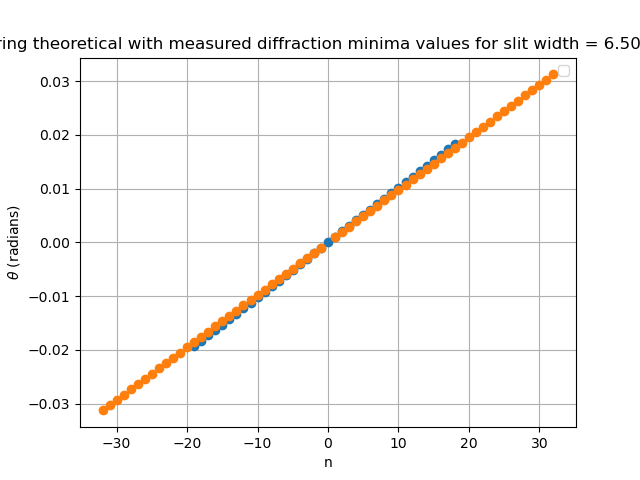
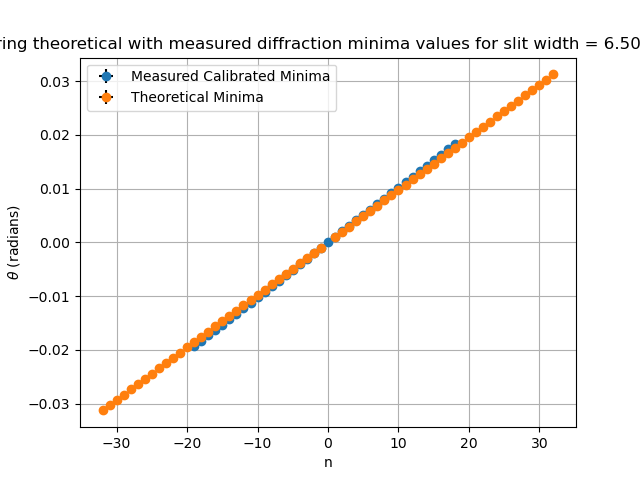
Cleanup code

Changed region(s): [[0.1562, 0.125, 0.5312, 0.2188]]

diff --git a/main.py b/main.py
@@ -58,6 +58,7 @@ def main() -> None:
     samples: list[str] = [dt.dataPath620, dt.dataPath650, dt.dataPath700, dt.dataPath750]
     # samples: list[str] = [dt.dataPath]
 
+    # The final found slits for either real measured (calibrated) or model data
     realSlitWidths: list = []
     modelSlitWidths: list = []
 
@@ -69,29 +70,29 @@ def main() -> None:
         # Get slitwidth from the saved filepath name i.e. data/diffraction_data_200.dat -> slitWidth = 200
         filepath: str = Path(sample).stem # Take the filepath without extension
         slitWidth: float = float(filepath.split("_")[-1])  # Take the part after the last underscore, which is defined to be the slit width
-        # slitWidth += 12
 
         slitWidth *= 1e-6 # Convert to meters
 
         # Measured 'real' data
         realData: NDArray = dt.readData(sample)
 
-        # pick an odd window ≤ len(y)
+        # Smoothing parameters
         n = len(realData[:, 1])
-        window_length = min(31, n if n % 2 == 1 else n - 1)
-        polyorder     = 2 if window_length > 2 else 1
+        window_length = min(31, n if n % 2 == 1 else n - 1) # Picking an odd large enough number to smooth out the noisiness
+        polyorder = 2 if window_length > 2 else 1 # Cant be larger than the windoww length
 
-        # smooth intensity
+        # Smooth measured intensity
         smoothedRealIntensity = signal.savgol_filter(realData[:, 1], window_length=window_length, polyorder=polyorder)
 
-        # plot.plotGraph(realData[:,0], smoothedRealIntensity)
+        ####### Intensity pattern comparing
+
+         # plot.plotGraph(realData[:,0], smoothedRealIntensity)
 
         # The measured highest data peak value index
         # peakIndex: NDArray = tools.maxPeakIndex(realData)
         # Measured 'real' data x value range conversion to general theta expressions
         # realThetaRange: NDArray = tools.pixelToTheta(realData[:, 0], peakIndex)
 
-        ####### Intensity pattern comparing
         # Measured 'real' data values
         # realIntensity: NDArray = realData[:, 1]
 
@@ -107,19 +108,20 @@ def main() -> None:
 
         # plot.configureGraph("Comparing theoretical with measured diffraction pattern intenisty values.", "$\\theta$ (radians)", "I (volts)", True)
         # plot.displayGraph()
+        
         #######
 
         # Find the minimas for both model and measured data
         modelMinima: list[list] = tools.predictMinima(slitWidth)
         realMinima: list[NDArray] = tools.findMinima(realData[:, 0], smoothedRealIntensity)
 
+        # Initial guess for the ODRcalibration
         initialGuess: NDArray = np.array([params.wavelength / slitWidth])
+        # Solves the measured data uncertainties and finds the real slope using ODR routines
         calibratedRealMinima = tools.solveMinimaUncertainty(realMinima[0], realMinima[1], initialGuess)
 
-        # Fitted parameters
-        slope = calibratedRealMinima[0]
-
-        realSlitWidth: float = params.wavelength / slope
+        # Get the calibrated measured slit width: slope = lambda / b
+        realSlitWidth: float = params.wavelength / calibratedRealMinima[0]
         
         # Store all slit widths for final comparing
         realSlitWidths.extend(realSlitWidth)
@@ -127,7 +129,7 @@ def main() -> None:
 
         # Comparing the minima values
         # plot.plotGraph(realMinima[0], realMinima[1], "Measured minima") # Previous uncalibrated measured data
-        plot.plotErrorGraph(realMinima[0], np.array(slope) * np.array(realMinima[0]), yerr=params.thetaMinimalUncertainty, label="Measured Calibrated Minima", markers="+")
+        plot.plotErrorGraph(realMinima[0], np.array(calibratedRealMinima[0]) * np.array(realMinima[0]), yerr=params.thetaMinimalUncertainty, label="Measured Calibrated Minima", markers="+")
         plot.plotErrorGraph(modelMinima[0], modelMinima[1], yerr=params.thetaMinimalUncertainty, label="Theoretical Minima", markers="o")
         
         plot.configureGraph("Comparing theoretical with measured diffraction minima values for slit width = %e" % slitWidth, "n", "$\\theta$ (radians)", True)
@@ -136,9 +138,12 @@ def main() -> None:
         
         plot.displayGraph()
 
+    # Clear any residue theta minima plotting
     plot.clearGraph()
 
+    # Comparison graph of model minima vs measured calibrated minima
     plot.plotErrorGraph(np.array(modelSlitWidths), np.array(realSlitWidths), xerr=params.slitUncertainty, yerr=params.slitUncertainty, label="Compared Minima Points")
+    # A static theoretical 45 degree line to show the divergence of measured results
     plot.plotGraph(np.array(modelSlitWidths), np.array(modelSlitWidths), label="Theoretical 45 degree ratio", line="--", markers="None")
      
     # Finding line of best fit and creating a polynomial object for it
@@ -151,8 +156,6 @@ def main() -> None:
     plot.plotGraph(xFit, yFit, label = "Line of Best Fit", line= "-", markers = "None")
 
     plot.configureGraph("Comparing the model slit width with calibrated real slit width for %d samples." % len(samples), "Model", "Measured", True)
-    # plot.setGraphLimits(modelSlitWidths[-1], realSlitWidths[-1])
-    # plot.setGraphTicks(modelSlitWidths, realSlitWidths)
 
     # Printing the final results
     print("The slope of the line of best fit is:", coeffs[0])

diff --git a/util/plot.py b/util/plot.py
@@ -23,25 +23,15 @@ def configureGraph(title: str, xLabel: str, yLabel: str, showGrid: bool = False)
 
     plt.grid(showGrid)
 
-def setGraphLimits(right: float, top: float):
-    plt.xlim(right=right)  # sets max limit of x-axis
-    plt.ylim(top=top)    # sets max limit of y-axis
-
-def setGraphTicks(xValues: NDArray = [], yValues: NDArray = []):
-    if len(xValues) != 0:
-        plt.xticks(xValues)
-    
-    if len(yValues) != 0:
-        plt.yticks(yValues)
-
 # Plot the simulation graph.
 def plotGraph(xAxis: NDArray, yAxis: NDArray, label: str = "New Graph", line="None", markers: str = "*") -> None:
     """`plotGraph` computes the simulation graph values."""
 
     plt.plot(xAxis, yAxis, label=label, marker=markers, linestyle=line)
 
+# Sa e as plotGraph but for recording error bars
 def plotErrorGraph(xAxis: NDArray, yAxis: NDArray, xerr: float = 0, yerr: float = 0, label: str = "New Graph", line="None", markers: str = "*") -> None:
-    """`plotGraph` computes the simulation graph values."""
+    """`plotErrorGraph` computes the simulation graph values with provided error bar values."""
 
     plt.errorbar(xAxis, yAxis, xerr=xerr, yerr=yerr, fmt="o", ecolor = "black", label=label)
 

diff --git a/params.py b/params.py
@@ -21,5 +21,5 @@ minimaDistance: float = 50
 nMinimalUncertainty: float = 0.1
 # Uncertainty for theta (y axis)
 thetaMinimalUncertainty: float = 1.16 * 10e-8 #10e-5
-
+# Unvertainty for the slits (x and y axis)
 slitUncertainty: float = 10e-6
